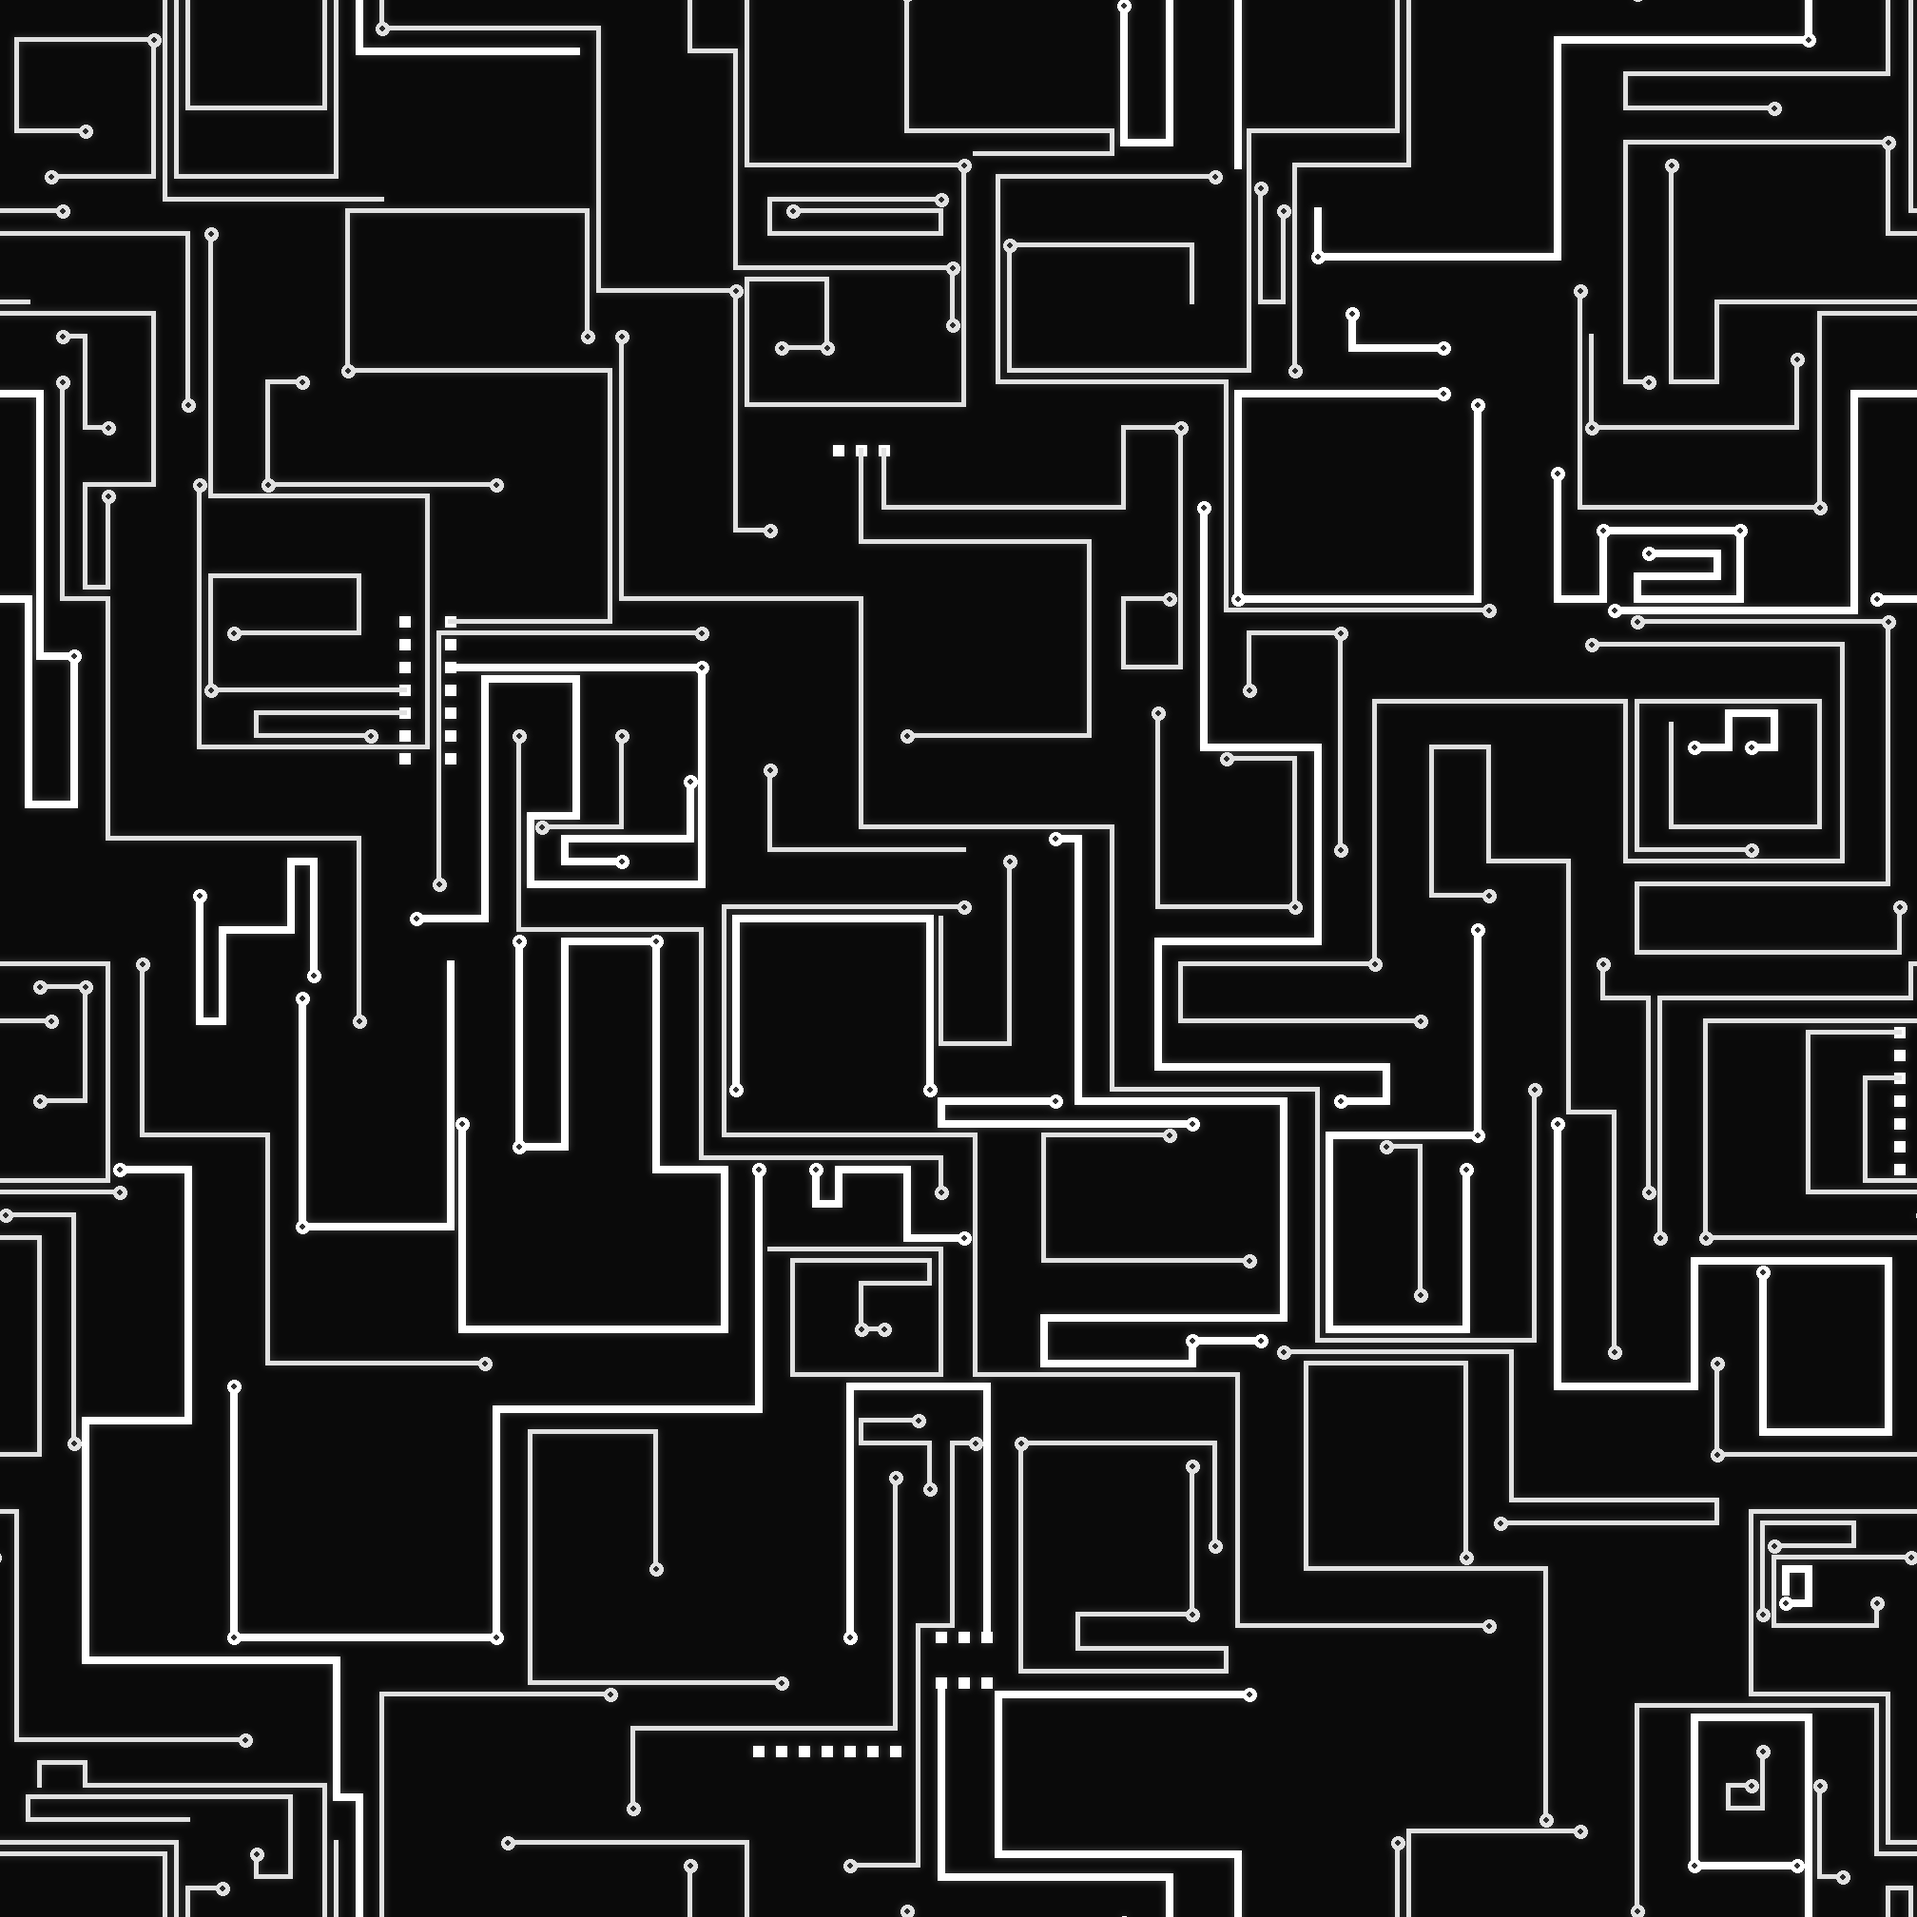
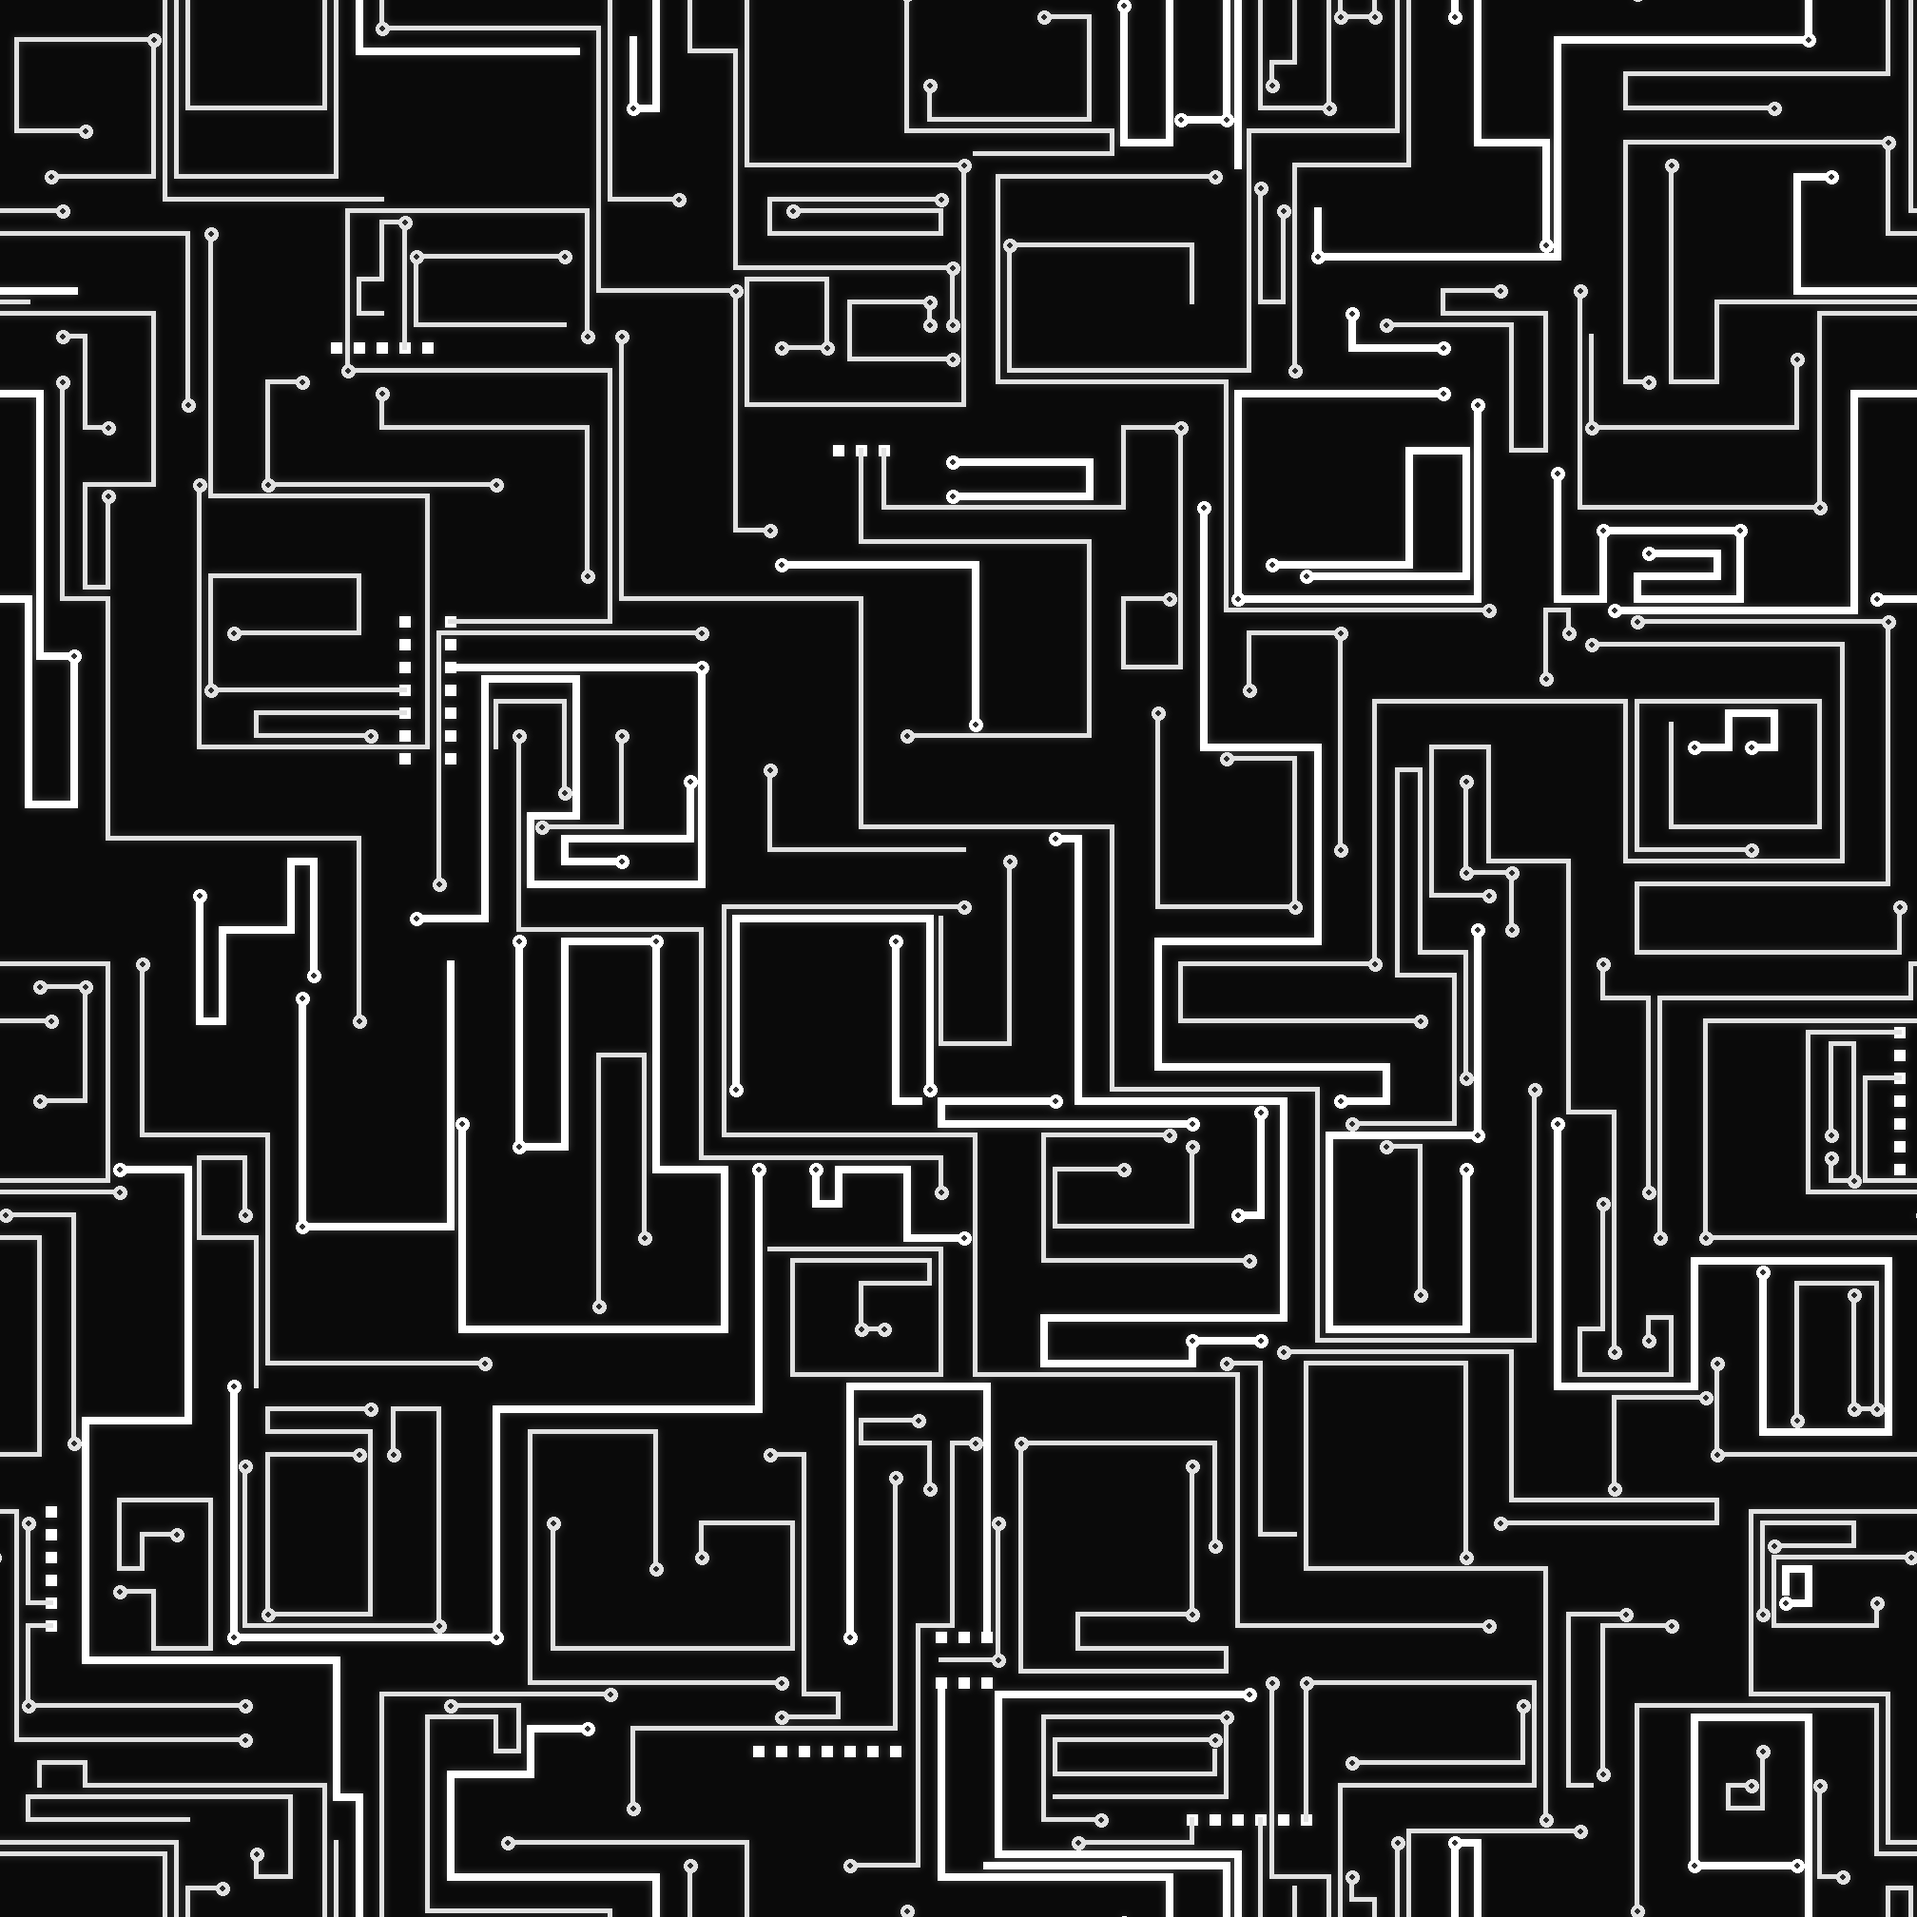
Towers 15% taller; floor coverage up to ~13.7%.
TOWER_HEIGHT 1.1 -> 1.265 with the base pinned to the floor (position
derived from the mesh bottom instead of a fixed y). The rooftop swoop
still clears roofs by >= 3.75 units; minimum 3D clearance is 2.5.
Floor regenerated at ~13.5% target coverage.

diff --git a/src/scenekit/GibsonSCNScene.mm b/src/scenekit/GibsonSCNScene.mm
@@ -22,7 +22,10 @@
 /* Tower footprint scale (base mesh is 9.125 units wide on a 30-unit grid).
    The flight path keeps >= 1.5 units of clearance up to 1.9. */
 #define TOWER_FOOTPRINT 1.6f
-#define TOWER_HEIGHT 1.1f
+#define TOWER_HEIGHT 1.265f       /* 15% taller than the original 1.1 */
+/* towers.obj spans y -12.69..21.69; keep the base on the floor (y ~0.04). */
+#define TOWER_MESH_BOTTOM (-12.6916f)
+#define TOWER_BASE_Y 0.04f
 
 static float gibson_tower_footprint(void)
 {
@@ -386,7 +389,7 @@ static NSImage *gibson_trace_mask_image(NSImage *src)
     auto place = ^(SCNGeometry *g, SCNNode *parent, float px, float pz) {
         SCNNode *tower = [SCNNode nodeWithGeometry:g];
         tower.scale = SCNVector3Make(footprint, TOWER_HEIGHT, footprint);
-        tower.position = SCNVector3Make(px, 14.f, pz);
+        tower.position = SCNVector3Make(px, TOWER_BASE_Y - TOWER_MESH_BOTTOM * TOWER_HEIGHT, pz);
         [parent addChildNode:tower];
     };
 

diff --git a/tools/gen_textures.py b/tools/gen_textures.py
@@ -736,7 +736,7 @@ PCB_VIA_R = 7
 PCB_HOLE_R = 2.5
 PCB_THIN_V = 215              # thin and thick traces read as two "colors"
 PCB_THICK_V = 255
-PCB_COVERAGE = 0.104          # sparse: well below the reference's ~30%
+PCB_COVERAGE = 0.135          # well below the reference's ~30%
 DIRS = [(1, 0), (0, 1), (-1, 0), (0, -1)]
 
 
